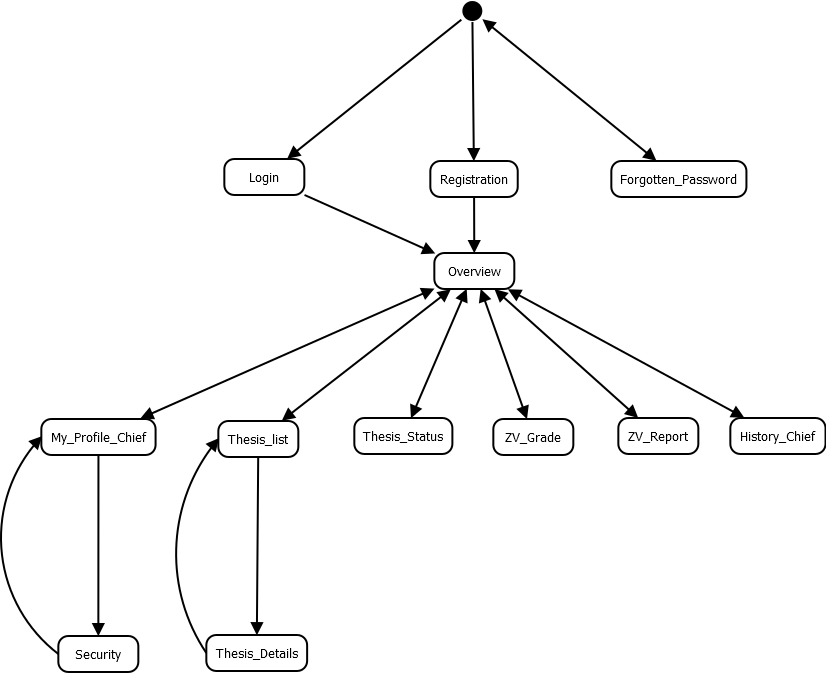
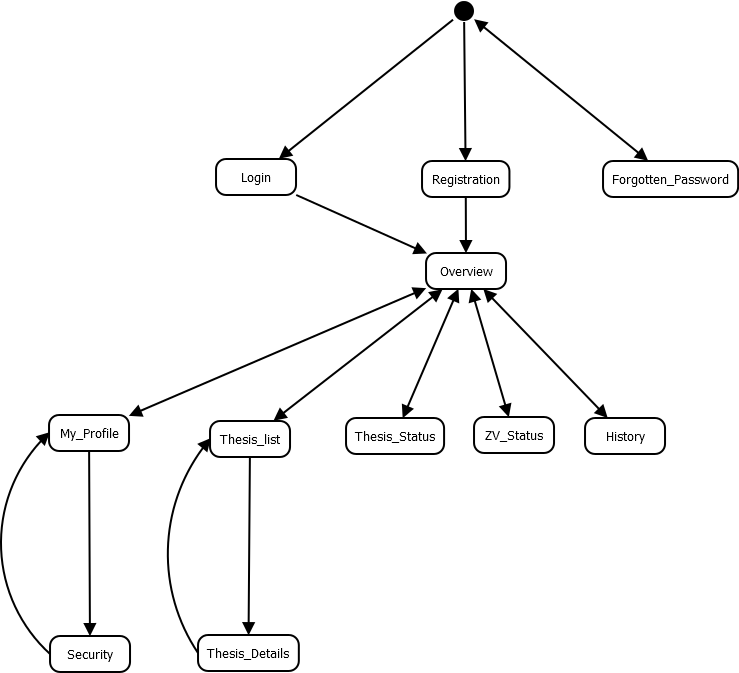
Upload

diff --git a/docs/chapters/Lapok_reszletezese.rst b/docs/chapters/Lapok_reszletezese.rst
@@ -118,13 +118,6 @@ Sikeres feltöltés (Completed)
 
 Megtörtént a szakdolgozat sikeres feltöltése.
 
-Sikertelen feltöltés (Failed)
-^^^^^^^^^^^^^^^^^^^^^^^^^^^^^
-
-.. image:: images/Web_pages/Failed.jpg
-
-A szakdolgozat feltöltése sikertelen volt.
-
 Szakdolgozatok státusza (Thesis_Status)
 ---------------------------------------
 
@@ -145,6 +138,11 @@ Szakdolgozat Bírálat (Thesis_Review)
 
 A *Témavezető* és a *Bíráló* itt írhatja meg a bírálatot.
 
+Bírálatok státusza (Report_Status)
+----------------------------------
+
+.. image:: images/Web_pages/Report_Status.jpg
+
 Záróvizsga létrehozása (ZV_Create)
 ----------------------------------
 
@@ -152,19 +150,14 @@ Záróvizsga létrehozása (ZV_Create)
 
 Az *Elnök* itt hozhatja létre a záróvizsgát.
 
-Záróvizsga jegyek rögzítése (ZV_Grade)
---------------------------------------
+Záróvizsga jegyek rögzítése és Záróvizsga jegyzőkönyv letöltése (ZV_Status)
+---------------------------------------------------------------------------
 
-.. image:: images/Web_pages/ZV_Grade.jpg
+.. image:: images/Web_pages/ZV_Status.jpg
 
-A *Jegyző* az *Elnök* és a *Témavezető* itt rögzítheti a Záróvizsgán kapott érdemjegyeket.
+- A *Jegyző* az *Elnök* és a *Témavezető* itt rögzítheti a Záróvizsgán kapott érdemjegyeket.
 
-Záróvizsga jegyzőkönyv letöltése (ZV_Report)
---------------------------------------------
-
-.. image:: images/Web_pages/ZV_Report.jpg    
-
-A felhasználók innen tölthetik le a jegyzőkönyvet.
+- A felhasználók innen tölthetik le a jegyzőkönyvet.
 
 Saját profil [Hallgató] (My_Profile_Student)
 --------------------------------------------
@@ -173,10 +166,10 @@ Saját profil [Hallgató] (My_Profile_Student)
 
 A Hallgató saját profilja látható a megadott adatok alapján.
 
-Saját profil [A töbi szerepkörre] (My_Profile_Chief)
+Saját profil [A többi szerepkörre] (My_Profile)
 ----------------------------------------------------
 
-.. image:: images/Web_pages/My_Profile_Chief.jpg
+.. image:: images/Web_pages/My_Profile.jpg
 
 Az *Elnök*, *Bíráló*, *Jegyző*, *Témavezető* saját profilja látható a megadott adatok alapján.    
 
@@ -194,10 +187,10 @@ Történetiséget leíró lap [Hallgató] (History_Student)
 
 Egy történetiséget leíró lap látható, amin az egész szakdolgozat procedúra figyelhető meg.
 
-Történetiséget leíró lap [Többi szerepkör] (History_Chief)
+Történetiséget leíró lap [Többi szerepkör] (History)
 ----------------------------------------------------------
 
-.. image:: images/Web_pages/History_Chief.jpg
+.. image:: images/Web_pages/History.jpg
 
 Egy történetiséget leíró lap látható, amin az egész szakdolgozat procedúra figyelhető meg.
 
